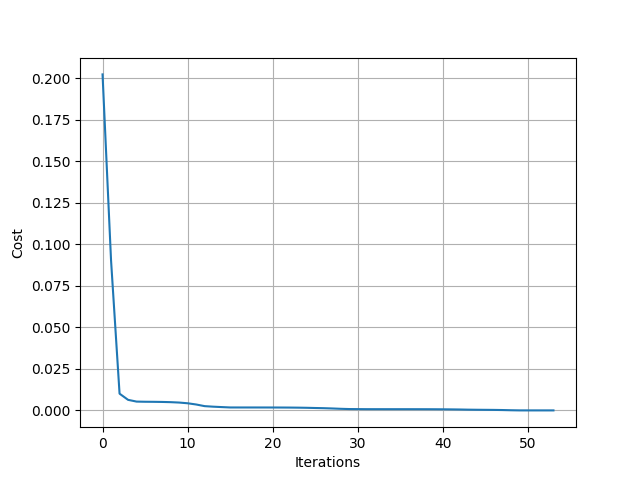
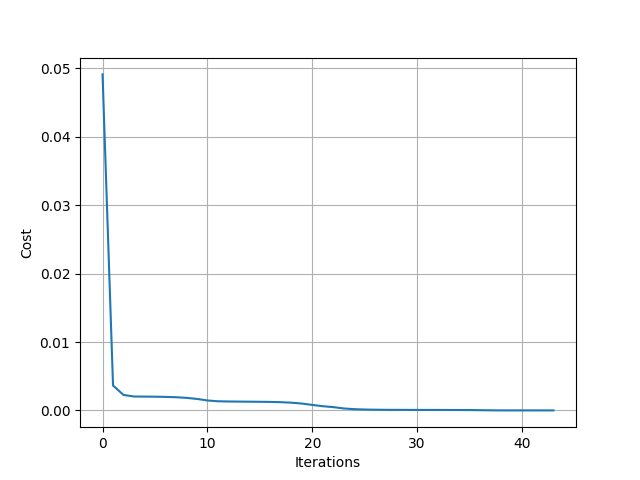
Improved performance

diff --git a/python-code/forward_prop_test.py b/python-code/forward_prop_test.py
@@ -26,10 +26,10 @@ def test_error_func():
 
 
 def test_gradient_desc_numerical():
-    X = np.array(([3,5], [5,1], [10,2]), dtype=float)
+    X = np.array(([3, 5], [5, 1], [10, 2]), dtype=float)
     y = np.array(([75], [82], [93]), dtype=float)
 
-    X = X/np.amax(X, axis=0)
+    X = X / np.amax(X, axis=0)
     y = y / 100.0
 
     nn = NeuralNetwork(X.shape[1])
@@ -53,10 +53,10 @@ def test_gradient_desc_numerical():
 
 
 def test_opt():
-    X = np.array(([3,5], [5,1], [10,2]), dtype=float)
+    X = np.array(([3, 5], [5, 1], [10, 2]), dtype=float)
     y = np.array(([75], [82], [93]), dtype=float)
 
-    X = X/np.amax(X, axis=0)
+    X = X / np.amax(X, axis=0)
     y = y / 100.0
 
     nn = NeuralNetwork(X.shape[1])
@@ -70,20 +70,21 @@ def test_opt():
 
     print("X prediction: ")
     print(nn.forwardPropagation(X))
-    
+
     print("y: ")
     print(y)
 
+
 def test_backprop():
-    X = np.array(([3,5], [5,1], [10,2]), dtype=float)
+    X = np.array(([3, 5], [5, 1], [10, 2]), dtype=float)
     y = np.array(([75], [82], [93]), dtype=float)
 
     nn = NeuralNetwork(X.shape[1])
 
-    X = X/np.amax(X, axis=0)
+    X = X / np.amax(X, axis=0)
     y = y / 100.0
     costs = []
-    for i in range(0, 1500):
+    for i in range(0, 10000):
         dJdw1, dJdw2 = nn.cost_prime_function(X, y)
         nn.apply_changes(dJdw1, dJdw2)
         costs.append(nn.cost_function(X, y))
@@ -92,14 +93,12 @@ def test_backprop():
     print(nn.forwardPropagation(X))
     print("y: ")
     print(y)
-    
+
     plt.plot(costs)
     plt.grid(1)
     plt.xlabel("Iterations")
     plt.ylabel("Cost")
     plt.savefig('cost-reduction-mine.png')
-
-    
 
 
 def compute_numerical_gradients(nn, x, y):

diff --git a/python-code/pymlp/neural_network.py b/python-code/pymlp/neural_network.py
@@ -48,7 +48,7 @@ class NeuralNetwork(object):
     def __init__(self, feature_no,
                  hidden_layer_neurons=3,
                  output_layer_size=1,
-                 alpha=1):
+                 alpha=3):
         """
         Create a neural network with a few params avaiable.
 
